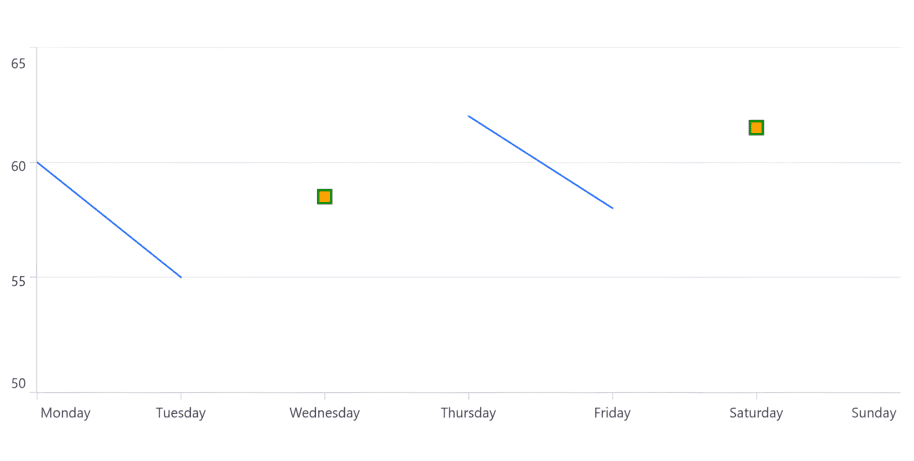
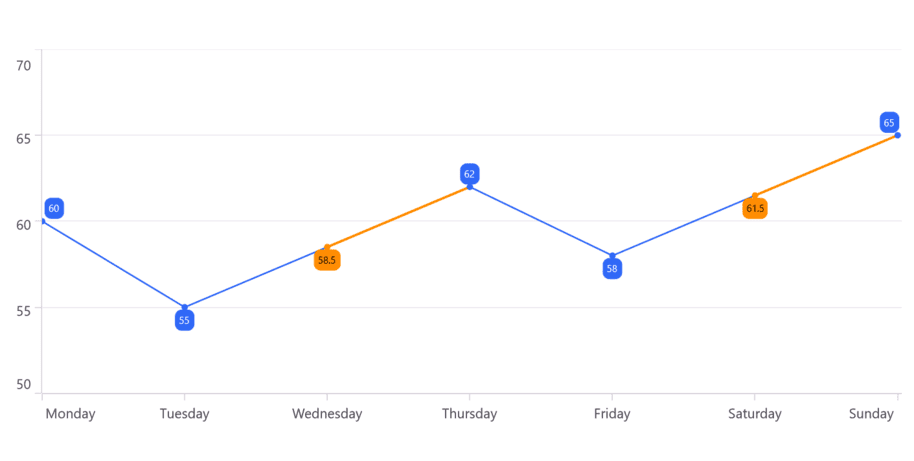
modified the empty point UG documentation

diff --git a/MAUI/Cartesian-Charts/EmptyPoints.md b/MAUI/Cartesian-Charts/EmptyPoints.md
@@ -9,7 +9,7 @@ keywords: .net maui chart empty points, .net maui empty points customization, sy
 ---
 
 # Empty Points in .NET MAUI Chart
-Empty Points are used to indicate missing or null data in a series. These empty points can occur when data is unavailable, improperly formatted, or explicitly set as null or Double.NaN. The chart provides options to handle and customize these empty points to enhance visualization and maintain the integrity of data representation.
+Empty Points are used to indicate missing or null data in a series. These empty points can occur when data is unavailable, improperly formatted, or explicitly set as null or double.NaN. The chart provides options to handle and customize these empty points to enhance visualization and maintain the integrity of data representation.
 
 [SfCartesianChart](https://help.syncfusion.com/cr/maui/Syncfusion.Maui.Charts.SfCartesianChart.html) provides support for empty points, allowing users to handle missing data effectively.
 
@@ -27,14 +27,20 @@ The data collection that is passed to the chart can have NaN or Null values that
 
 {% endhighlight %}
 
-By default, the [ShowEmptyPoints]() property is false. So the empty points will not be rendered as shown in the below.
+By default, the [EmptyPointMode]() property is None. So the empty points will not be rendered as shown in the below.
 
 ![Empty Points in MAUI Chart](EmptyPoints_images/EmptyPoints_Default.png)
 
-## Enable Empty Points
-The [ShowEmptyPoints]() property of series determines whether empty points should be displayed on the chart.
+## EmptyPointMode
+The [EmptyPointMode]() property of series specifies how empty points should be handled. 
 
-N> The default value of the EmptyPointMode property is Zero.
+This property is an enumeration with the following options:
+
+* None - Empty points are not rendered. This is the default behavior.
+* Zero - Empty points will be replaced with zero.
+* Average - Empty points will be replaced with the average value of the surrounding data points.
+
+The following code example shows the [EmptyPointMode]() as Zero.
 
 {% tabs %}
 
@@ -44,13 +50,15 @@ N> The default value of the EmptyPointMode property is Zero.
 
         .....
 
-        <chart:ColumnSeries ItemsSource="{Binding MovieSales}"
-                        XBindingPath="Day"
-                        YBindingPath="TicketsSold"
-                        Fill="#3068F7"
-                        ShowDataLabels="True"
-                        ShowEmptyPoints="True">
-        </chart:ColumnSeries>
+        <chart:LineSeries ItemsSource="{Binding MovieSales}"
+                  XBindingPath="Day"
+                  YBindingPath="TicketsSold"
+                  Fill="#3068F7"
+                  StrokeWidth="2"
+                  ShowMarkers="True"
+                  ShowDataLabels="True"
+                  EmptyPointMode="Zero">
+        </chart:LineSeries>
     </chart:SfCartesianChart>
 
 {% endhighlight %}
@@ -61,14 +69,15 @@ N> The default value of the EmptyPointMode property is Zero.
 
     .....
 
-    ColumnSeries series = new ColumnSeries()
+    LineSeries series = new LineSeries()
     {
         ItemsSource = new ViewModel().MovieSales,
         XBindingPath = "Day",
         YBindingPath = "TicketsSold",
         Fill = Color.FromArgb("#3068F7"),
         ShowDataLabels = true,
-        ShowEmptyPoints = true,
+        ShowMarkers = true,
+        EmptyPointMode = EmptyPointMode.Zero
     };
 
     chart.Series.Add(series);
@@ -78,15 +87,9 @@ N> The default value of the EmptyPointMode property is Zero.
 
 {% endtabs %}
 
-![ShowEmptyPoints in MAUI Chart](EmptyPoints_images/Enable_EmptyPoints.png)
+![EmptyPoint Mode Zero in MAUI Chart](EmptyPoints_images/EmptyPoints_Mode_Zero.png)
 
-## EmptyPointMode
-The [EmptyPointMode]() property of series determines how empty points are handled when [ShowEmptyPoints]() is enabled.
-
-This is an enum property with the following options:
-
-* Zero - Empty points will be replaced with zero (0). This is the default behavior.
-* Average - Empty points will be replaced with the average value of the surrounding data points.
+The following code example shows the [EmptyPointMode]() as Average.
 
 {% tabs %}
 
@@ -101,7 +104,6 @@ This is an enum property with the following options:
                   YBindingPath="TicketsSold"
                   Fill="#3068F7"
                   ShowDataLabels="True"
-                  ShowEmptyPoints="True"
                   EmptyPointMode="Average">
         </chart:ColumnSeries>
     </chart:SfCartesianChart>
@@ -121,7 +123,6 @@ This is an enum property with the following options:
         YBindingPath = "TicketsSold",
         Fill = Color.FromArgb("#3068F7"),
         ShowDataLabels = true,
-        ShowEmptyPoints = true,
         EmptyPointMode = EmptyPointMode.Average
     };
 
@@ -138,11 +139,8 @@ This is an enum property with the following options:
 The [EmptyPointSettings]() property allows you to customize the appearance of empty points in a chart. This enables you to adjust various visual aspects of empty points, making them more distinct from the other data points. You can modify the following properties within [EmptyPointSettings]().
 
 * [Fill]() - Gets or sets the fill color for the empty points.
-* [Type]() - Gets or sets the shape of the marker for empty points.
 * [Stroke]() - Gets or sets the stroke color for empty points.
 * [StrokeWidth]() - Gets or sets the stroke thickness for empty points.
-
-N> The Type property is not supported for Area, WaterFall and FastLine series.
 
 {% tabs %}
 
@@ -153,17 +151,16 @@ N> The Type property is not supported for Area, WaterFall and FastLine series.
         .....
 
         <chart:LineSeries ItemsSource="{Binding MovieSales}"
-                    XBindingPath="Day"
-                    YBindingPath="TicketsSold"
-                    Fill="#3068F7"
-                    StrokeWidth="2"
-                    ShowEmptyPoints="True"
-                    EmptyPointMode="Average">
+                  XBindingPath="Day"
+                  YBindingPath="TicketsSold"
+                  Fill="#3068F7"
+                  StrokeWidth="2"
+                  ShowMarkers="True"
+                  ShowDataLabels="True"
+                  EmptyPointMode="Average">
             <chart:LineSeries.EmptyPointSettings>
-                <chart:EmptyPointSettings Fill="Orange" 
-                                    Type="Rectangle" 
-                                    Stroke="Green" 
-                                    StrokeWidth="3"/>
+                <chart:EmptyPointSettings Fill="DarkOrange" 
+                                        StrokeWidth="3"/>
             </chart:LineSeries.EmptyPointSettings>
         </chart:LineSeries>
     </chart:SfCartesianChart>
@@ -183,15 +180,14 @@ N> The Type property is not supported for Area, WaterFall and FastLine series.
         YBindingPath = "TicketsSold",
         Fill = Color.FromArgb("#3068F7"),
         StrokeWidth = 2,
-        ShowEmptyPoints = true,
+        ShowDataLabels = true,
+        ShowMarkers = true,
         EmptyPointMode = EmptyPointMode.Average
     };
 
     EmptyPointSettings emptypointSettings = new EmptyPointSettings()
     {
         Fill = Colors.Orange,
-        Type = EmptyPointType.Rectangle,
-        Stroke = Colors.Green,
         StrokeWidth = 3
     };
 
@@ -204,6 +200,6 @@ N> The Type property is not supported for Area, WaterFall and FastLine series.
 
 {% endtabs %}
 
-![Customize EmptyPoints in MAUI Chart](EmptyPoints_images/Customize_EmptyPoints.png)
+![Customize EmptyPoints in MAUI Chart](EmptyPoints_images\Customize_EmptyPoints.png)
 
 N> The EmptyPoints feature is not supported for Histogram and BoxAnd series.
